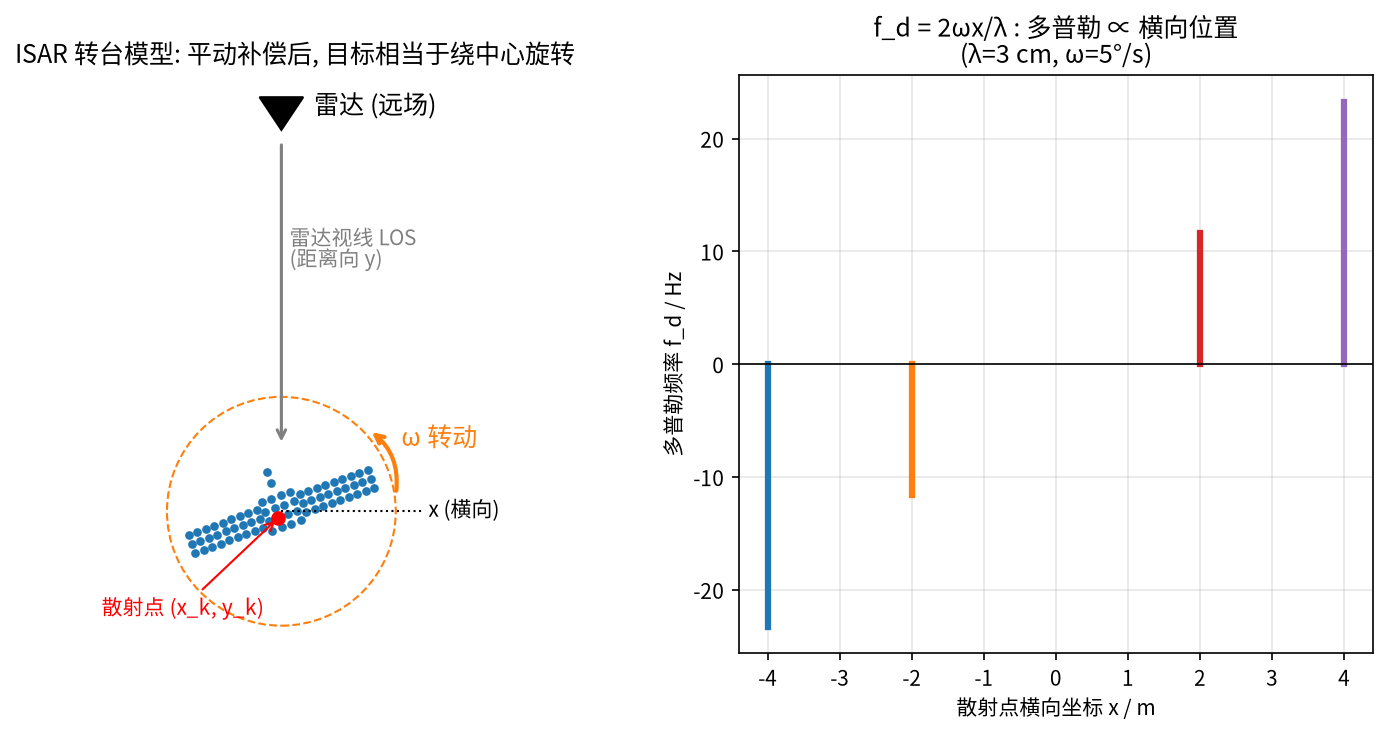
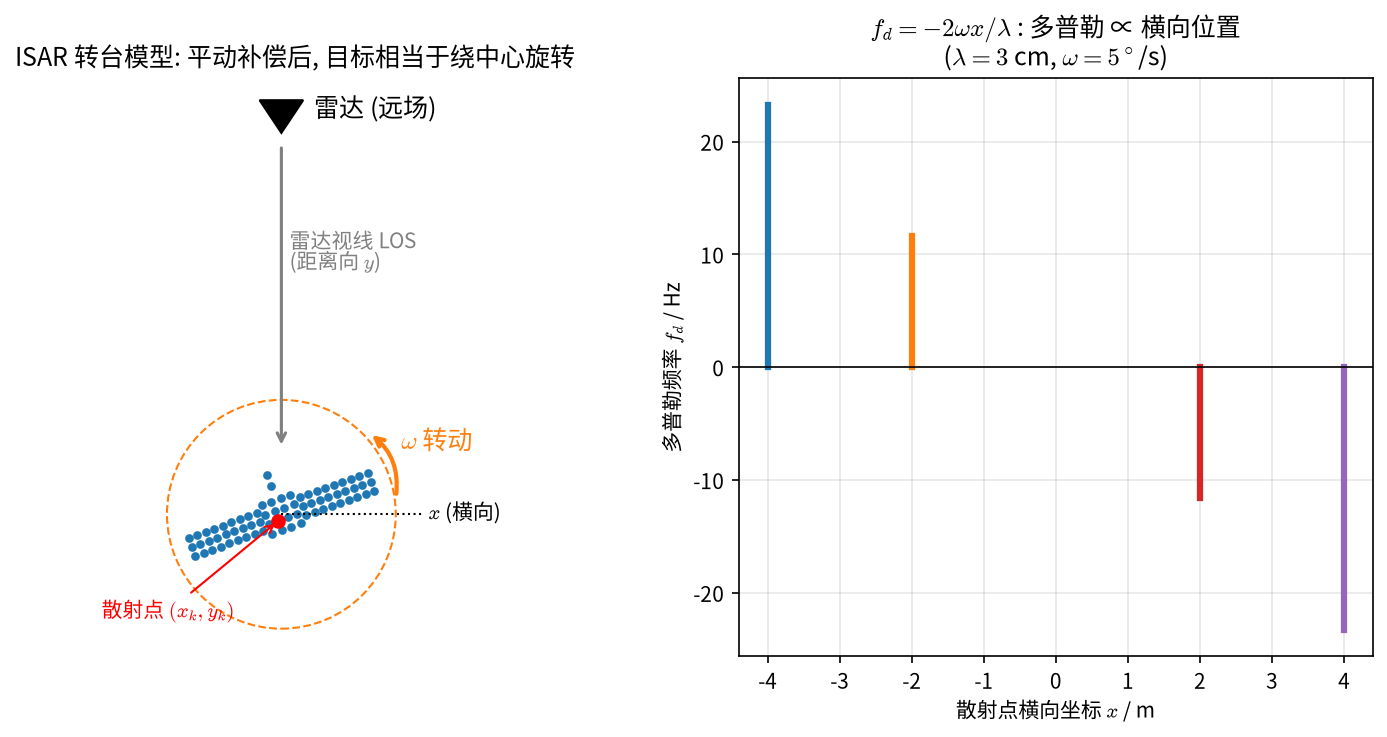
A2 修正式(2.3)后径向运动方向；自绘框图与 A03/A18 公式改用 mathtext 排版、A03 符号与式(2.4)一致；B1 框图把 4 个 stage 接入主链；去掉读者身份措辞

diff --git a/docs/code/make_diagrams.py b/docs/code/make_diagrams.py
@@ -6,12 +6,18 @@ import matplotlib.pyplot as plt
 from matplotlib.patches import FancyBboxPatch, FancyArrowPatch
 import isar_core as ic
 ic.setup_cjk_font()
+matplotlib.rcParams['mathtext.fontset'] = 'cm'   # $…$ 内的公式按 LaTeX (Computer Modern) 排版
 OUT = os.path.join(os.path.dirname(os.path.abspath(__file__)), '..', 'figures')
 COL = dict(in_='#dbeafe', pre='#fef3c7', net='#dcfce7', key='#fecaca', out='#e9d5ff', gray='#f1f5f9')
 
-def diagram(name, nodes, edges, size=(14, 4.5), title=None, notes=None):
+def diagram(name, nodes, edges, size=(14, 4.5), title=None, notes=None, groups=(), loops=()):
+    """groups: [(x0, y0, x1, y1, 标签)] 虚线分组框; loops: [(折线点列, 标签, 标签位置)] 回环箭头。"""
     fig, ax = plt.subplots(figsize=size); ax.set_xlim(0, 100); ax.set_ylim(0, 100); ax.axis('off')
     pos = {}
+    for (gx0, gy0, gx1, gy1, glab) in groups:
+        ax.add_patch(FancyBboxPatch((gx0, gy0), gx1 - gx0, gy1 - gy0, boxstyle='round,pad=0.3,rounding_size=2',
+                                    fc='#f8fafc', ec='#64748b', lw=1.2, ls='--', zorder=0))
+        ax.text(gx0 + 1, gy1 - 1.5, glab, ha='left', va='top', fontsize=9.5, color='#334155')
     for k, (x, y, w, h, txt, c) in nodes.items():
         ax.add_patch(FancyBboxPatch((x - w/2, y - h/2), w, h, boxstyle='round,pad=0.4,rounding_size=1.5',
                                     fc=COL.get(c, c), ec='#334155', lw=1.2))
@@ -29,7 +35,13 @@ def diagram(name, nodes, edges, size=(14, 4.5), title=None, notes=None):
         ax.add_patch(FancyArrowPatch(p1, p2, arrowstyle='-|>', mutation_scale=14, color='#334155', lw=1.3, ls=sty,
                                      connectionstyle='arc3,rad=0'))
         if lab: ax.text((p1[0]+p2[0])/2, (p1[1]+p2[1])/2 + 2.5, lab, fontsize=8, ha='center', color='#b91c1c')
+    for (pts, lab, lxy) in loops:                       # 折线回环: 前几段画线, 最后一段带箭头
+        xs, ys_ = zip(*pts)
+        ax.plot(xs[:-1], ys_[:-1], ls='--', color='#64748b', lw=1.3)
+        ax.add_patch(FancyArrowPatch(pts[-2], pts[-1], arrowstyle='-|>', mutation_scale=14, color='#64748b', lw=1.3, ls='--'))
+        if lab: ax.text(lxy[0], lxy[1], lab, fontsize=8.5, ha='center', va='center', color='#475569')
     ys = [v[1] - v[3]/2 for v in nodes.values()] + [v[1] + v[3]/2 for v in nodes.values()]
+    ys += [g[1] for g in groups] + [g[3] for g in groups]
     lo, hi = min(ys) - (9 if notes else 4), max(ys) + 4
     ax.set_ylim(lo, hi); fig.set_size_inches(size[0], size[1] * (hi - lo) / 100 + 0.4)
     if title: ax.set_title(title, fontsize=13)
@@ -37,24 +49,28 @@ def diagram(name, nodes, edges, size=(14, 4.5), title=None, notes=None):
     fig.savefig(os.path.join(OUT, name), dpi=150, bbox_inches='tight'); plt.close(fig); print('saved', name)
 
 def p1():
-    n = {'in': (7, 55, 11, 22, 'HH/HV/VV\n三通道\nISAR 像\n128×128', 'in_'),
-         'pauli': (22, 55, 12, 22, 'Pauli 分解\n→ 相干矩阵 T\n→ 6维特征\nA~F', 'pre'),
-         'mix': (37, 55, 12, 22, 'MixConv\n(3×3/5×5/7×7)\nBN+池化\n1×1卷积→3通道', 'pre'),
-         'psfeb': (55, 78, 16, 18, 'PSFEB 极化散射分支\n分组卷积+交互卷积\n+极坐标注意力', 'key'),
-         'sfeb': (55, 32, 16, 18, 'SFEB 空间分支\n卷积+深度卷积\n+空间注意力', 'net'),
-         'stage': (55, 55, 12, 8, '×4 层级 stage', 'gray'),
-         'lgfb': (74, 55, 12, 22, 'LGFB\n局部-全局融合\n(高效MHSA\n+多头卷积注意力)', 'key'),
-         'out': (91, 55, 11, 18, 'BatchNorm\nSoftmax\n→ 6类', 'out')}
-    e = [('in', 'pauli'), ('pauli', 'mix'), ('mix', 'psfeb'), ('mix', 'sfeb'), ('psfeb', 'lgfb'), ('sfeb', 'lgfb'), ('lgfb', 'out')]
-    diagram('B1_dbssit_simple.png', n, e, title='论文1 DB-SSIT 简化框图 (自绘, 对应原文 Fig.1–5)',
-            notes='思想: 一条支路看“极化散射机理”(通道间关系), 一条支路看“空间结构”(像素邻域), 最后用 Transformer 融合局部与全局')
+    # 原文 Fig. 1: 预处理 → 4 个层级 stage(每个 stage 内 PSFEB ∥ SFEB 并行, 拼接 C) → LGFB → BN + Softmax
+    n = {'in': (6, 55, 10, 22, 'HH/HV/VV\n三通道\nISAR 像\n128×128', 'in_'),
+         'pauli': (19, 55, 11, 22, 'Pauli 分解\n→ 相干矩阵 $\\mathbf{T}$\n→ 6 维特征\nA–F', 'pre'),
+         'mix': (32, 55, 11, 22, 'MixConv\n(3×3/5×5/7×7)\nBN+池化\n1×1卷积→3通道', 'pre'),
+         'psfeb': (52, 72, 15, 14, 'PSFEB 极化散射分支\n分组卷积+交互卷积\n+极坐标注意力', 'key'),
+         'sfeb': (52, 40, 15, 14, 'SFEB 空间分支\n卷积+深度卷积\n+空间注意力', 'net'),
+         'cat': (65, 56, 5, 8, 'C\n拼接', 'gray'),
+         'lgfb': (80, 56, 11, 22, 'LGFB\n局部-全局融合\n(高效MHSA\n+多头卷积注意力)', 'key'),
+         'out': (93, 56, 9, 18, 'BatchNorm\nSoftmax\n→ 6类', 'out')}
+    e = [('in', 'pauli'), ('pauli', 'mix'), ('mix', 'psfeb'), ('mix', 'sfeb'), ('psfeb', 'cat'), ('sfeb', 'cat'),
+         ('cat', 'lgfb'), ('lgfb', 'out')]
+    groups = [(41, 18, 70, 93, '层级 stage ×4　尺寸 $H/4 \\to H/8 \\to H/16 \\to H/32$')]
+    loops = [([(65, 51.8), (65, 26), (43, 26), (43, 54)], '前 3 个 stage 的输出送入下一 stage', (55, 22.5))]
+    diagram('B1_dbssit_simple.png', n, e, title='论文1 DB-SSIT 简化框图 (自绘, 对应原文 Fig.1–5)', groups=groups, loops=loops,
+            notes='思想: 一条支路看“极化散射机理”(通道间关系), 一条支路看“空间结构”(像素邻域), 4 个 stage 逐级下采样后, 用 Transformer 融合局部与全局')
 
 def p2():
     n = {'in': (8, 55, 12, 22, '散焦的复值\nISAR 像\n(实部+虚部)', 'in_'),
          'cnn': (26, 55, 14, 22, '复值卷积\nCV-Conv + CV-BN\n→ 复特征向量', 'net'),
-         'node': (45, 55, 14, 22, '节点 = 特征\n⊕ 标签\n已知:1+j0\n查询:1/N+j/N', 'pre'),
-         'graph': (64, 55, 14, 22, '复值图网络\n邻接 |x_i−x_j|\n(实、虚分别)\nCV-Softmax', 'key'),
-         'out': (84, 55, 14, 22, '查询节点输出\nN 维复概率\n→ 类别', 'out')}
+         'node': (45, 55, 14, 22, '节点 = 特征\n⊕ 标签\n已知: $1+j0$\n查询: $1/N+j/N$', 'pre'),
+         'graph': (64, 55, 14, 22, '复值图网络\n邻接 $|x_i-x_j|$\n(实、虚分别)\nCV-Softmax', 'key'),
+         'out': (84, 55, 14, 22, '查询节点输出\n$N$ 维复概率\n→ 类别', 'out')}
     e = [('in', 'cnn'), ('cnn', 'node'), ('node', 'graph'), ('graph', 'out')]
     diagram('B2_cvgnn_simple.png', n, e, title='论文2 CV-GNN 简化框图 (自绘, 对应原文 Fig.2, Fig.6)',
             notes='思想: 不做重聚焦, 直接把“散焦复图像”的实部/虚部关系交给复值网络; 图网络在少样本间传递标签信息')
@@ -75,12 +91,12 @@ def p4():
     n = {'pre': (12, 82, 20, 14, '① 对比学习预训练\n随机成像参数生成 patch 对\nNT-Xent 损失', 'pre'),
          'enc': (12, 45, 18, 14, 'CV-ResNet18\n复值编码器\n(预训练后保留)', 'net'),
          'in': (12, 15, 16, 12, '复值 ISAR 像\n(支持/查询)', 'in_'),
-         'patch': (36, 70, 16, 16, '分割→外接矩形\n→ N×N 重叠 patch\n→ 每 patch 编码', 'pre'),
+         'patch': (36, 70, 16, 16, '分割→外接矩形\n→ $N\\times N$ 重叠 patch\n→ 每 patch 编码', 'pre'),
          'gra': (55, 70, 15, 16, '② GRA 图推理\n8邻域强 patch 相连\n(局部结构)', 'key'),
          'tr': (74, 70, 15, 16, '复值 Transformer\n(全局关系)', 'key'),
-         'glob': (55, 30, 15, 14, '整图嵌入网络\n(全局特征 E_w)', 'net'),
-         'fuse': (74, 30, 15, 14, '特征融合\nE_f=[E_w,E_p]W', 'net'),
-         'cls': (92, 50, 13, 22, '③ 图分类模块\n(GNN少样本)\n→ C-way\n类别', 'out')}
+         'glob': (55, 30, 15, 14, '整图嵌入网络\n(全局特征 $E_w$)', 'net'),
+         'fuse': (74, 30, 15, 14, '特征融合\n$E_f=[E_w,E_p]\\,W$', 'net'),
+         'cls': (92, 50, 13, 22, '③ 图分类模块\n(GNN少样本)\n→ $C$-way\n类别', 'out')}
     e = [('pre', 'enc'), ('in', 'enc'), ('enc', 'patch'), ('patch', 'gra'), ('gra', 'tr'), ('enc', 'glob'), ('tr', 'fuse'), ('glob', 'fuse'), ('fuse', 'cls')]
     diagram('B4_cvpgt_simple.png', n, e, size=(14, 7), title='论文4 CvPGT 简化框图 (自绘, 对应原文 Fig.2–7)',
             notes='思想: 复值网络保留相位; 对比学习让特征对分辨率/散焦/旋转不敏感; patch 图 + Transformer 同时抓局部与全局')
@@ -89,15 +105,15 @@ def p5():
     n = {'in': (7, 55, 11, 20, 'ISAR 像\n(可能被拉伸/\n旋转/平移)', 'in_'),
          'stn': (24, 55, 15, 24, '多头 STN (MH-STN)\n3 个头各输出 5 参数\n平移2+缩放2+旋转1\n(无剪切, tanh 限幅)', 'key'),
          'cat': (40, 55, 11, 18, '3 张校正图\n+ 原图\n拼成 4 通道', 'pre'),
-         'gen': (56, 55, 14, 24, 'GEN 组嵌入网络\n分组卷积 + 可变形\n卷积空间注意力\n+ 通道注意力\n→ (均值 z, 方差 s)', 'net'),
-         'gat': (75, 55, 15, 24, 'MG-GAT\n高斯节点\n掩码注意力\n(只保留 top-k 邻居)', 'key'),
-         'out': (92, 55, 10, 18, '查询类别\n(N-way)', 'out')}
+         'gen': (56, 55, 14, 24, 'GEN 组嵌入网络\n分组卷积 + 可变形\n卷积空间注意力\n+ 通道注意力\n→ (均值 $z$, 方差 $s$)', 'net'),
+         'gat': (75, 55, 15, 24, 'MG-GAT\n高斯节点\n掩码注意力\n(只保留 top-$k$ 邻居)', 'key'),
+         'out': (92, 55, 10, 18, '查询类别\n($N$-way)', 'out')}
     e = [('in', 'stn'), ('stn', 'cat'), ('cat', 'gen'), ('gen', 'gat'), ('gat', 'out')]
     diagram('B5_remi_simple.png', n, e, title='论文5 REMI 简化框图 (自绘, 对应原文 Fig.2–5)',
             notes='思想: 先“摆正”图像(鲁棒嵌入), 再在少样本图上用“带不确定度”的节点做稀疏推理(流形推理)')
 
 def p6():
-    n = {'in': (7, 55, 11, 22, 'S=3 个站\n同时刻的\nISAR 像', 'in_'),
+    n = {'in': (7, 55, 11, 22, '$S=3$ 个站\n同时刻的\nISAR 像', 'in_'),
          'g': (22, 55, 12, 18, '通道拼接\n分组卷积\n(每站一组)', 'net'),
          'isfr': (40, 55, 16, 26, 'ISFR 站间融合\n① AMFA: 各站仿射对齐\n(缩放/旋转/平移)\n② 轻量 Transformer\n跨站重建', 'key'),
          'conv': (57, 55, 10, 14, '后续\n卷积块', 'net'),
@@ -105,14 +121,14 @@ def p6():
          'inf': (90, 55, 13, 22, '原型+查询拼接\n关系模块打分\n→ 类别', 'out')}
     e = [('in', 'g'), ('g', 'isfr'), ('isfr', 'conv'), ('conv', 'icfr'), ('icfr', 'inf')]
     diagram('B6_mlfr_simple.png', n, e, title='论文6 MLFR 简化框图 (自绘, 对应原文 Fig.2–3)',
-            notes='损失 = λ1 结构对齐(SSIM) + λ2 站重建(MSE) + λ3 类间对比(InfoNCE) + λ4 交叉熵; 思想: 先把多站“对齐成一个视角”, 再拉开类间差异')
+            notes='损失 = $\\lambda_1$ 结构对齐(SSIM) + $\\lambda_2$ 站重建(MSE) + $\\lambda_3$ 类间对比(InfoNCE) + $\\lambda_4$ 交叉熵; 思想: 先把多站“对齐成一个视角”, 再拉开类间差异')
 
 def p7():
-    n = {'in': (7, 55, 11, 22, '简缩极化\nS_LL, S_RL\n实+虚 → 4通道\n256×256', 'in_'),
-         'det': (24, 55, 14, 22, '阶段1: RTMdet\nCSP 骨干 + PAFPN\n头1 → 旋转框\n(x,y,w,h,θ)+9类', 'net'),
+    n = {'in': (7, 55, 11, 22, '简缩极化\n$S_{\\mathrm{LL}}$, $S_{\\mathrm{RL}}$\n实+虚 → 4通道\n256×256', 'in_'),
+         'det': (24, 55, 14, 22, '阶段1: RTMdet\nCSP 骨干 + PAFPN\n头1 → 旋转框\n$(x,y,w,h,\\theta)$+9类', 'net'),
          'mg': (42, 55, 14, 22, 'MGNF\n多高斯阈值→掩膜\n剔除目标外锚点\n(节点减少 71.74%)', 'pre'),
-         'loc': (60, 78, 15, 16, '局部图: NMS 后\n最优框↔被抑制框\n(同类且 IoU≥0.1)', 'key'),
-         'glo': (60, 32, 15, 16, '全局图: 最优框间\n类别分数余弦相似\nkNN (k=5)', 'key'),
+         'loc': (60, 78, 15, 16, '局部图: NMS 后\n最优框↔被抑制框\n(同类且 IoU$\\geq 0.1$)', 'key'),
+         'glo': (60, 32, 15, 16, '全局图: 最优框间\n类别分数余弦相似\n$k$NN ($k=5$)', 'key'),
          'fuse': (77, 55, 13, 18, 'GAT 聚合\n残差融合\n头2 精修', 'net'),
          'out': (93, 55, 10, 18, '部件旋转框\n+ 9 类部件', 'out')}
     e = [('in', 'det'), ('det', 'mg'), ('mg', 'loc'), ('mg', 'glo'), ('loc', 'fuse'), ('glo', 'fuse'), ('fuse', 'out')]

diff --git a/docs/code/make_figures.py b/docs/code/make_figures.py
@@ -7,6 +7,7 @@ from matplotlib.patches import FancyArrowPatch, Circle, Rectangle, Polygon
 import isar_core as ic
 
 ic.setup_cjk_font()
+matplotlib.rcParams['mathtext.fontset'] = 'cm'   # $…$ 内的公式按 LaTeX (Computer Modern) 排版
 OUT = os.path.join(os.path.dirname(os.path.abspath(__file__)), '..', 'figures'); os.makedirs(OUT, exist_ok=True)
 def save(fig, name):
     fig.savefig(os.path.join(OUT, name), dpi=150, bbox_inches='tight'); plt.close(fig); print('saved', name)
@@ -54,14 +55,14 @@ def fig_turntable():
     a.add_patch(Polygon([[-0.4, 7.6], [0.4, 7.6], [0, 7.0]], color='k'))
     a.text(0.6, 7.3, '雷达 (远场)', fontsize=12)
     a.annotate('', xy=(0, 1.2), xytext=(0, 6.8), arrowprops=dict(arrowstyle='->', lw=1.5, color='gray'))
-    a.text(0.15, 4.5, '雷达视线 LOS\n(距离向 y)', color='gray')
+    a.text(0.15, 4.5, '雷达视线 LOS\n(距离向 $y$)', color='gray')
     pts, _ = ic.satellite_points('sat_a'); p = ic.rotate_pts(pts, np.deg2rad(20)) * 0.35
     a.scatter(p[:, 0], p[:, 1], s=10, c='C0')
     a.add_patch(Circle((0, 0), 2.1, fill=False, ls='--', color='C1'))
     a.annotate('', xy=(1.6, 1.5), xytext=(2.1, 0.3), arrowprops=dict(arrowstyle='->', color='C1', lw=2, connectionstyle='arc3,rad=0.3'))
-    a.text(2.2, 1.2, 'ω 转动', color='C1', fontsize=12)
-    a.plot([0, 2.6], [0, 0], 'k:', lw=1); a.text(2.7, -0.1, 'x (横向)')
-    q = p[5]; a.plot(*q, 'ro'); a.annotate('散射点 (x_k, y_k)', xy=q, xytext=(-3.3, -1.9), color='r', arrowprops=dict(arrowstyle='->', color='r'))
+    a.text(2.2, 1.2, '$\\omega$ 转动', color='C1', fontsize=12)
+    a.plot([0, 2.6], [0, 0], 'k:', lw=1); a.text(2.7, -0.1, '$x$ (横向)')
+    q = p[5]; a.plot(*q, 'ro'); a.annotate('散射点 $(x_k, y_k)$', xy=q, xytext=(-3.3, -1.9), color='r', arrowprops=dict(arrowstyle='->', color='r'))
     a.set_xlim(-3.5, 4); a.set_ylim(-2.6, 8)
     a.set_title('ISAR 转台模型: 平动补偿后, 目标相当于绕中心旋转')
     # 右: 多普勒与 x 的关系
@@ -69,10 +70,10 @@ def fig_turntable():
     om = np.deg2rad(5)/1.0; lam = 0.03
     xs = np.array([-4, -2, 0, 2, 4])
     for x in xs:
-        b.plot([x, x], [0, 2*om*x/lam], lw=3)
+        b.plot([x, x], [0, -2*om*x/lam], lw=3)   # 式 (2.4): 远离为正的 v 对应 f_d = -2ωx/λ
     b.axhline(0, color='k', lw=.8)
-    b.set_xlabel('散射点横向坐标 x / m'); b.set_ylabel('多普勒频率 f_d / Hz')
-    b.set_title('f_d = 2ωx/λ : 多普勒 ∝ 横向位置\n(λ=3 cm, ω=5°/s)')
+    b.set_xlabel('散射点横向坐标 $x$ / m'); b.set_ylabel('多普勒频率 $f_d$ / Hz')
+    b.set_title('$f_d = -2\\omega x/\\lambda$ : 多普勒 ∝ 横向位置\n($\\lambda=3$ cm, $\\omega=5^\\circ$/s)')
     b.grid(alpha=.3)
     save(fig, 'A03_turntable.png')
 
@@ -336,9 +337,9 @@ def fig_attention():
     for i in range(1, n): ax[0].axhline(i*P-.5, color='y', lw=.6); ax[0].axvline(i*P-.5, color='y', lw=.6)
     ax[0].add_patch(Rectangle((n//2*P-.5, n//2*P-.5), P, P, fill=False, ec='r', lw=2))
     ax[0].set_title(f'切成 {n}×{n} 个 patch (token); 红框为查询 token')
-    ax[1].imshow(att.reshape(n, n), origin='lower', cmap='hot'); ax[1].set_title('查询 token 对所有 token 的注意力权重\nsoftmax(q·k/√d)')
+    ax[1].imshow(att.reshape(n, n), origin='lower', cmap='hot'); ax[1].set_title('查询 token 对所有 token 的注意力权重\n$\\mathrm{softmax}(\\mathbf{q}\\cdot\\mathbf{k}/\\sqrt{d})$')
     ax[2].axis('off')
-    ax[2].text(0, .5, '自注意力:\n  Q = XW_Q,  K = XW_K,  V = XW_V\n  Attn(Q,K,V) = softmax(QK^T/√d)·V\n\n'
+    ax[2].text(0, .5, '自注意力:\n  $Q = XW_Q,\\ K = XW_K,\\ V = XW_V$\n  $\\mathrm{Attn}(Q,K,V) = \\mathrm{softmax}(QK^{\\mathsf{T}}/\\sqrt{d})\\,V$\n\n'
                '每个 token 根据与其它 token 的相似度\n“加权汇总”全局信息 → 捕捉远距离\n散射结构关系(如两块太阳翼之间)',
                fontsize=12, va='center')
     for x in ax[:2]: x.set_xticks([]); x.set_yticks([])

diff --git a/docs/part-b/B1_dbssit.md b/docs/part-b/B1_dbssit.md
@@ -1,4 +1,4 @@
-> **Part B 的阅读方法。** 每篇论文按统一结构展开：基本信息 → 一句话概括 → 背景与动机 → 要解决的问题 → 方法分步讲解（自绘简化框图 + 原文关键图）→ 数据集 → 实验与结果（数值均已对照原文表格核对）→ 优点与局限 → 本科生可复现的部分 → 自测题。阅读顺序按第 15 章的推荐路线：DB-SSIT → DCA-Net → MSN → REMI → MLFR → CV-GNN → CvPGT；各章以方法简称标识，按目录顺序阅读即可。
+> **Part B 的阅读方法。** 每篇论文按统一结构展开：基本信息 → 一句话概括 → 背景与动机 → 要解决的问题 → 方法分步讲解（自绘简化框图 + 原文关键图）→ 数据集 → 实验与结果（数值均已对照原文表格核对）→ 优点与局限 → 可动手复现的部分 → 自测题。阅读顺序按第 15 章的推荐路线：DB-SSIT → DCA-Net → MSN → REMI → MLFR → CV-GNN → CvPGT；各章以方法简称标识，按目录顺序阅读即可。
 
 # 第 7 章 DB-SSIT —— 太赫兹全极化 ISAR 的双分支识别
 
@@ -174,11 +174,11 @@
 3. 没有跨姿态、跨俯仰角、实测噪声等泛化实验；类别名称未给出；
 4. 文中一些细节不一致：FFN 部分正文说 GELU，原文式 (12) 写的是 ReLU 形式【存疑】；特征 D 的分母印刷为 $\sqrt{T_{11}T_{33}}$【存疑】。
 
-## 7.7 本科生可以复现什么
+## 7.7 可以动手复现什么
 
 - **6 维特征计算**：本文 `code/isar_core.py::coherency_6d` 与 `code/dbssit_lite.py::pol_features_torch` 已按原文公式实现（D 同时给出原文印刷版与常见版）；
 - **简化版网络**：`code/dbssit_lite.py` 实现了“MixConv 预处理 + 4 个 stage 的双分支 + 简化 LGFB”的骨架（**教学简化版，非官方代码**，参数约 1.23 M），可直接用课题组的太赫兹数据训练；
-- **建议的严谨实验**：先按原始 168 幅划分训练/测试，再只对训练集扩增，对比与原文的精度差异——这本身就是一个很好的本科研究小课题。
+- **建议的严谨实验**：先按原始 168 幅划分训练/测试，再只对训练集扩增，对比与原文的精度差异——这本身就是一个很好的研究小课题。
 
 ## 7.8 自测题
 

diff --git a/docs/index.md b/docs/index.md
@@ -10,7 +10,7 @@
 **结构。** 全文分三部分：
 
 - **Part A 基础**（第 0–6 章）：数学与信号准备（第 0 章）、雷达与 ISAR 成像、极化、识别难点、深度学习入门（上、下两章）。每个概念都按“直觉类比 → 机理 → 可以手算的小例题 → 公式（逐个解释符号、不跳推导步骤）→ 配图”的顺序展开；配图均有 Python 代码（`code/`），关键处配有动画视频（`videos/`）。
-- **Part B 逐篇带读**（第 7–13 章）：每篇论文按“背景与动机 → 要解决的问题 → 方法分步 → 数据与实验 → 结果 → 优缺点 → 本科生可复现内容 → 自测题”展开；同时给出自绘简化框图，并引用原文关键图（标注原文图号）。
+- **Part B 逐篇带读**（第 7–13 章）：每篇论文按“背景与动机 → 要解决的问题 → 方法分步 → 数据与实验 → 结果 → 优缺点 → 可动手复现的内容 → 自测题”展开；同时给出自绘简化框图，并引用原文关键图（标注原文图号）。
 - **Part C 综合**（第 14–16 章）：分类体系、横向对比表、研究趋势、阅读路线、入门项目、术语表；附录列出所有“存疑/未能核实”之处。
 
 **七篇论文一览**（文中用方法简称指代）：

diff --git a/docs/part-a/A2_isar.md b/docs/part-a/A2_isar.md
@@ -54,7 +54,7 @@ $$R_k(t_m) = y_k\cos\theta(t_m) + x_k\sin\theta(t_m). \tag{2.2}$$
 
 $$R_k(t_m) \approx y_k + x_k\,\omega t_m . \tag{2.3}$$
 
-这个式子很好读：$y_k$ 是固定不变的部分，决定散射点落在哪个距离单元；$x_k\omega t_m$ 随时间线性增长，等价于一个径向速度 $v_k = x_k\omega$。也就是说，**横向坐标 $x_k$ 越大，这个点“看起来”朝雷达跑得越快**，就像转盘边缘比中心转得快。
+这个式子很好读：$y_k$ 是固定不变的部分，决定散射点落在哪个距离单元；$x_k\omega t_m$ 随时间线性增长，等价于一个径向速度 $v_k = x_k\omega$。按本章约定 $v=\mathrm dR/\mathrm dt$ 远离为正（取 $\omega>0$），$x_k>0$ 的点距离随时间增大，**在远离雷达**；$x_k<0$ 的点在靠近雷达。**$\lvert x_k\rvert$ 越大，这个点的径向速度越大**，就像转盘边缘比中心转得快。
 
 代入式 (2.1)，把 $v$ 换成 $x_k\omega$，得到第 $k$ 个点的多普勒频率：
 

diff --git a/docs/part-c/C2_projects.md b/docs/part-c/C2_projects.md
@@ -1,4 +1,4 @@
-# 第 15 章 阅读路线与本科生入门项目
+# 第 15 章 阅读路线与入门项目
 
 !!! tip "本章目标"
 
@@ -69,7 +69,7 @@ python project2_protonet.py --way 5 --shot 5 --episodes 1000 --per_class 40
 4. **消融**：去掉极化分支 / 去掉空间分支 / 把 6 维特征换成 3 通道幅度，比较 OA、AA、Kappa；
 5. **泛化**：训练用一部分方位角、测试用另一部分；若有不同俯仰角数据，做跨俯仰角测试。
 
-预期收获：理解原文 99.38% 背后的实验条件，并得到一个在更严格协议下的可靠结果——这可以直接成为本科毕业设计或大创项目的起点。
+预期收获：理解原文 99.38% 背后的实验条件，并得到一个在更严格协议下的可靠结果——这可以直接成为毕业设计或科研小项目的起点。
 
 !!! abstract "小结"
 

diff --git a/docs/part-b/B4_cvpgt.md b/docs/part-b/B4_cvpgt.md
@@ -187,7 +187,7 @@
 - 每类只有 30 幅图（12° 步长），测试类只有 3 个，统计规模偏小；1-shot 标准差约 8–10%，波动大；
 - 实测精度（70.07% / 76.27%）明显低于仿真，仿真–实测差距仍然显著。
 
-## 10.7 本科生可以复现什么
+## 10.7 可以动手复现什么
 
 - **物理增强对比学习**：用 `isar_core.echo_turntable` 对同一目标随机化 `dtheta_deg`（积累角）、`alpha_ratio`（加速度）、`theta0_deg`（旋转），生成正样本对，训练一个 SimCLR 式编码器；然后接 `project2_protonet.py`，比较有/无预训练的少样本精度——这是复现论文核心结论最直接的方式；
 - **patch 构图**：把 RD 像切成 8×8 块，按“8 邻域 + 能量阈值”建邻接矩阵，用 `torch_geometric` 或手写图卷积。

diff --git a/docs/part-b/B3_msn.md b/docs/part-b/B3_msn.md
@@ -204,7 +204,7 @@ RAM 插在每个 bottleneck 最后一个 ReLU 之后；ResNet50 使用 ImageNet 
 - 类别只有 5 个，均为仿真；“小样本”是每类 33–109 张，并非 1/5-shot；
 - 训练集与测试集来自同一批仿真（不同转动周期），类别不是“新类”，与后来的少样本论文（4、5、6）不可直接比较。
 
-## 9.7 本科生可以复现什么
+## 9.7 可以动手复现什么
 
 - 用 `project1_rd_dataset.py` 生成数据，分别训练 ResNet18（`project1_train_resnet18.py`）、原型网络（`project2_protonet.py`）与一个简单 SVM；
 - 用 `sklearn` 的 `StackingClassifier` 或 `xgboost` 实现第二层集成，比较“单模型 vs 简单平均 vs Stacking”。

diff --git a/docs/part-b/B5_remi.md b/docs/part-b/B5_remi.md
@@ -187,7 +187,7 @@
 - 总体精度仍不高（3-way 1-shot 约 67–69%，随机猜测为 33%），少样本 ISAR 识别远未解决；
 - 仅 HH 单极化、单站；作者在展望中提到序列观测、多站或多极化融合——这直接引出了 MLFR。
 
-## 11.7 本科生可以复现什么
+## 11.7 可以动手复现什么
 
 - 在 `project2_protonet.py` 的 Conv4 前加一个**约束 STN**：小 CNN 预测 5 个参数（tanh 限幅），用 `F.affine_grid` + `F.grid_sample` 变换，与原图拼接后输入嵌入网络；
 - 设计“场景 II”式实验：训练数据用 (B=1 GHz, Δθ=4°)，测试用 (B=1 GHz, Δθ=6°)，比较有无 STN 的精度。

diff --git a/docs/part-b/B6_mlfr.md b/docs/part-b/B6_mlfr.md
@@ -198,7 +198,7 @@ $$L = \lambda_1 L_{SA} + \lambda_2 L_{SR} + \lambda_3 L_{CR} + \lambda_4 L_{CL}$
 - 损失权重 λ 未给出，复现困难；
 - 样本数描述不够清晰；新类只有 3 类。
 
-## 12.7 本科生可以复现什么
+## 12.7 可以动手复现什么
 
 - 用 `isar_core` 对同一目标同时生成 3 个“站”的图像（不同 `theta0_deg`、`dtheta_deg`），构造多站数据集；
 - 先实现最简单的早期融合（3 站拼成 3 通道输入 Conv4-ProtoNet），再加一个按站的仿射对齐（`F.affine_grid`），验证“对齐后融合更好”这一核心结论。

diff --git a/docs/part-b/B2_cvgnn.md b/docs/part-b/B2_cvgnn.md
@@ -158,7 +158,7 @@ $$L = -\tfrac12\Big(\overline{\ln\sigma(\mathrm{Re})\odot l}\Big)^2 - \tfrac12\B
 - 仿真目标转角仅 ±1.92°，类别 8 个，规模较小；
 - 推理较慢；且需要复数数据，很多公开数据只提供幅度图。
 
-## 8.7 本科生可以复现什么
+## 8.7 可以动手复现什么
 
 - 用 `code/isar_core.py` 的 `echo_turntable(..., alpha_ratio>0)` 生成**散焦**复数像数据集；
 - 用 PyTorch 原生复数张量（`torch.cfloat`）实现复卷积：`conv_r(x.real) - conv_i(x.imag)` 与 `conv_r(x.imag) + conv_i(x.real)`；
